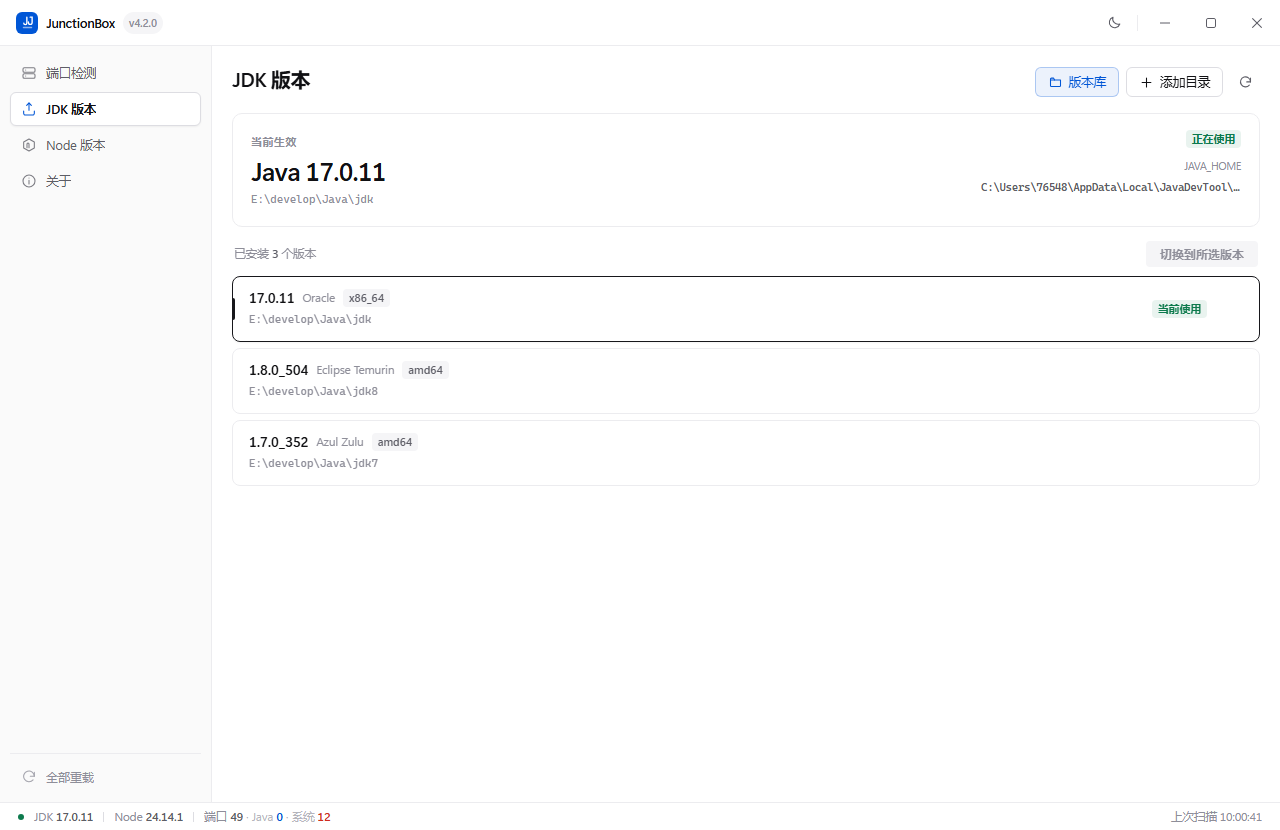
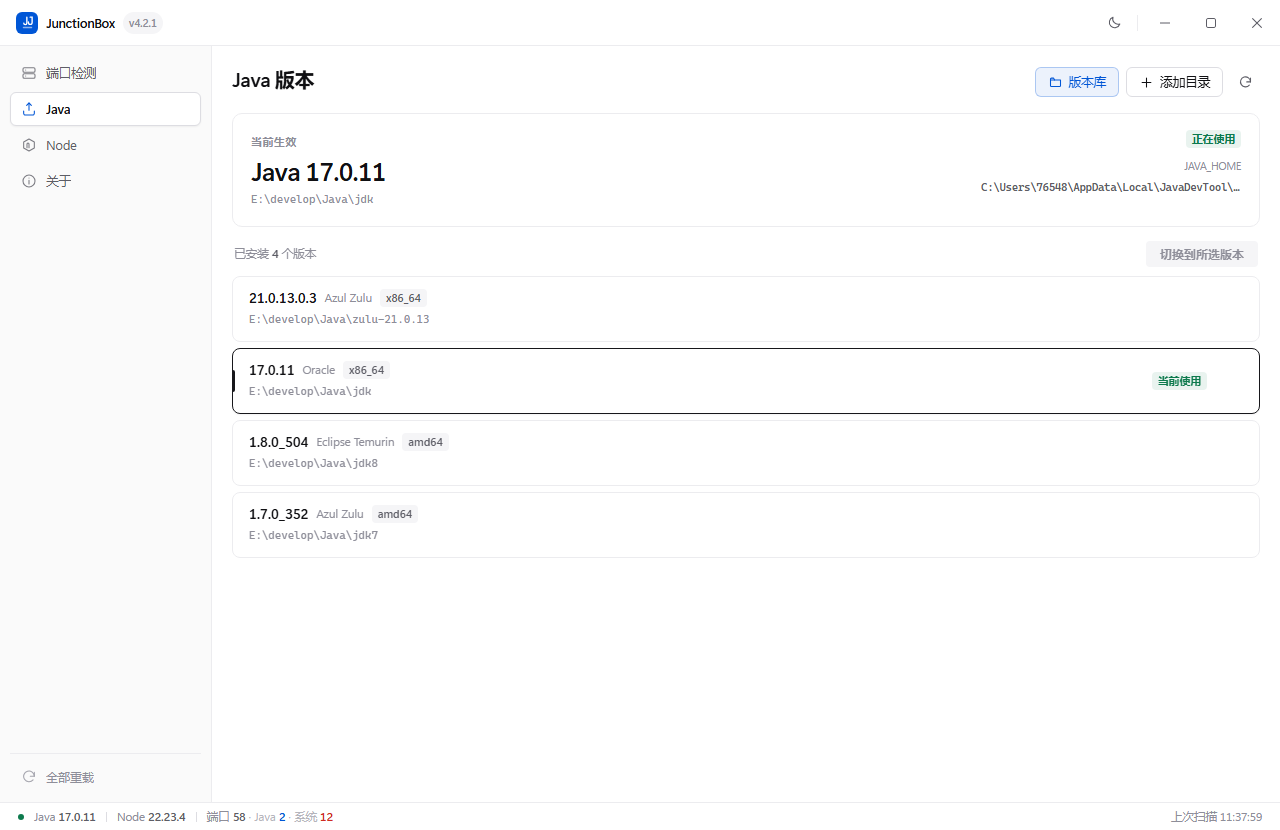
docs: 4.2.1 changelog, refreshed screenshots, updated install flow
The store screenshots no longer show a switch button, and 6-location is
replaced by 6-progress since the location dialog is gone. Architecture and
RUNTIME-STORE now describe the single-entry install flow, and suggestRoot is
documented as kept for tests rather than called on every install.

diff --git a/CHANGELOG.md b/CHANGELOG.md
@@ -13,6 +13,30 @@ Release 页就显示什么**。写新版本时只需遵守三个约定：
 
 ---
 
+## [4.2.1] - 2026-10-30 · 版本库只管下载，切换回列表做
+
+把「装一个版本」这条路收敛成一条直线：位置在版本库底部选一次，点安装直接开下，
+进度铺满整行，装完面板自动收起，切不切、切哪个全部回列表决定。
+
+### 调整
+
+- **版本库不再提供「切换」按钮**。已装好的版本只显示「已安装」标记，删除按钮照旧；
+  切换统一在 Java / Node 页做，一个动作只有一个入口。
+- **安装不再弹二次确认**。原来的选址弹窗要选位置、勾「以后都装到这里」再点开始安装，
+  而位置本来就在版本库底部写着——同一个问题问两遍。现在点「安装」直接按底部位置下载，
+  勾选项和弹窗一起移除。
+- **进度改为整行水填充**。从行左侧铺到右边，浅色填充带一条前缘线，
+  右侧显示百分比、已下 / 总量、速度与取消。
+- **装完自动收起版本库**，并提示「已安装 · 回列表切换」，不再替你自动切过去。
+- 左侧导航「JDK 版本 / Node 版本」改为「Java / Node」，状态栏同步为「Java」，页面标题为「Java 版本」。
+
+### 修复
+
+- 选址弹窗里那句提示文字会被长路径挤成三行、按钮错位，已随弹窗一并移除。
+- 自测里两条安装位置用例依赖本机真实目录，配置一改就误报，改为用挂不上的路径构造。
+
+---
+
 ## [4.2.0] - 2026-10-30 · 纯白界面、夜间模式，以及一轮安全加固
 
 界面从零重做，同时把这一轮安全审计发现的几个真问题一并修掉。其中最值得说的一个：

diff --git a/README.md b/README.md
@@ -32,11 +32,11 @@ no administrator rights, no environment rebuild.
   </tr>
   <tr>
     <td width="50%"><img src="docs/screenshots/5-store.png" alt="Runtime store" /></td>
-    <td width="50%"><img src="docs/screenshots/6-location.png" alt="Install location" /></td>
+    <td width="50%"><img src="docs/screenshots/6-progress.png" alt="Install progress" /></td>
   </tr>
   <tr>
     <td align="center"><sub><b>Store</b> — nine runtimes, downloaded on demand</sub></td>
-    <td align="center"><sub><b>Location</b> — asked once, defaults to your existing folder</sub></td>
+    <td align="center"><sub><b>Install</b> — one click, the row itself fills up</sub></td>
   </tr>
   <tr>
     <td width="50%"><img src="docs/screenshots/4-about.png" alt="Environment" /></td>
@@ -173,7 +173,7 @@ scan paths survive it.
 1  Run the executable.
 2  Ports page     see who holds a port, double-click a row to end the process.
 3  JDK / Node     pick a version, double-click to switch.
-4  Store          nothing to switch to? install one; it switches automatically.
+4  Store          nothing to switch to? install one, then pick it in the list.
 5  New terminal   verify with java -version / node -v.
 ```
 
